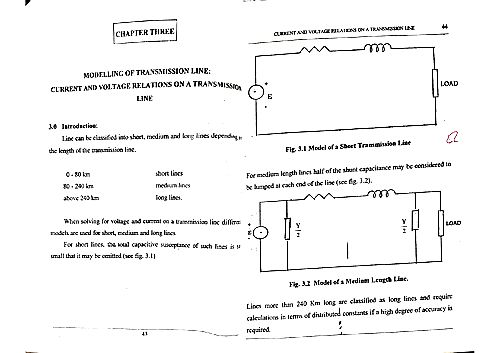
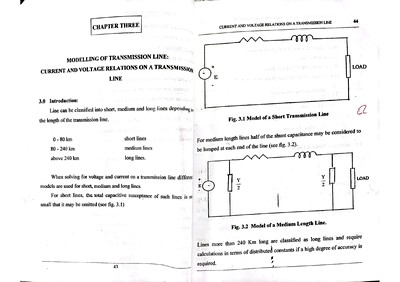
redid the former one

diff --git a/pdf-gen.py b/pdf-gen.py
@@ -20,12 +20,12 @@ def pdf_to_jpeg_with_enhancements(pdf_path, output_dir):
         enhanced_image = enhance_image(page)
 
         try:
-            enhanced_image.save(output_file, 'JPEG', optimize=True, quality=100, progressive=True)
+            enhanced_image.save(output_file, 'JPEG', optimize=True, quality=90, progressive=True)
             print(f'Saved: {output_file}')
         except Exception as e:
             print(f"Error saving image: {e}")
 
-def enhance_image(img, new_width=430):
+def enhance_image(img, new_width=400):
     img = img.convert('RGB')
 
     # Resize while maintaining aspect ratio
@@ -41,7 +41,7 @@ def enhance_image(img, new_width=430):
     return img
 
 if __name__ == '__main__':
-    pdf_path = "../books/EEE 404.1 ENGR. OMEJEH MATERIAL .pdf"
+    pdf_path = "../books/EEE405.1 DR OGBONNA MATERIAL .pdf"
     pdf_name = os.path.splitext(os.path.basename(pdf_path))[0].replace(" ", "_")  # Make it filename-safe
     image_output_dir = f"pages/{pdf_name}"
 

diff --git a/splitter.py b/splitter.py
@@ -44,6 +44,6 @@ def split_pdf_pages(pdf_path, output_folder):
             print(f"Saved: {output_path}")
             page_number += 1
 
-input_folder = "C:/Users/steezeless/Desktop/books/EEE 405.pdf"  # Replace with your folder path
+input_folder = "C:/Users/steezeless/Desktop/books/EEE405.1 DR OGBONNA MATERIAL .pdf"  # Replace with your folder path
 output_folder = "C:/Users/steezeless/Desktop/oblee"
 split_pdf_pages(input_folder, output_folder)
